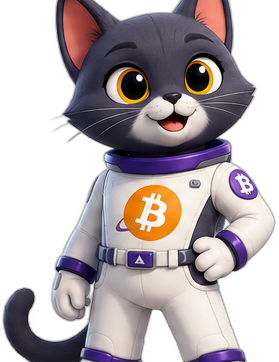
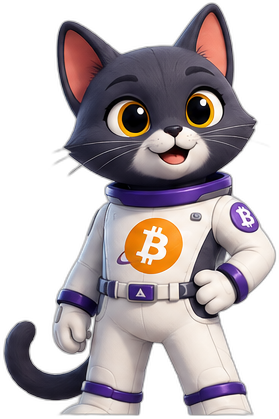
fix: preserve ear tips in hero frames
The previous crop trimmed 70px from the top of each frame to remove the
sprite number badge — but that also clipped the cat's ear tips. The fix
paints the badge area (and label strip at bottom) white BEFORE cropping
so rembg removes them naturally, while keeping a much smaller 18px trim
to retain the full ear silhouette.

diff --git a/scripts/crop-hero.py b/scripts/crop-hero.py
@@ -1,6 +1,7 @@
 #!/usr/bin/env python3
-"""Crop sprite sheet into 6 frames and remove background with rembg."""
-from PIL import Image
+"""Crop sprite sheet into 6 frames and remove background with rembg.
+Preserves ear tips by painting over the number badge BEFORE cropping."""
+from PIL import Image, ImageDraw
 from rembg import remove
 import io, os
 
@@ -13,7 +14,30 @@ W, H = img.size
 print(f"Source: {W}x{H}")
 
 CW, CH = W // 3, H // 2
-TRIM_TOP, TRIM_BOTTOM, TRIM_SIDES = 70, 80, 30
+
+# Paint the number badge area (top-left of each cell) white so it disappears
+# during background removal. This lets us keep a smaller TRIM_TOP and preserve
+# ear tips.
+draw = ImageDraw.Draw(img)
+BADGE_W, BADGE_H = 78, 68   # generous area around the badge
+for idx in range(6):
+    col = idx % 3
+    row = idx // 3
+    x0 = col * CW
+    y0 = row * CH
+    draw.rectangle([x0, y0, x0 + BADGE_W, y0 + BADGE_H], fill=(255, 255, 255, 255))
+
+# Also paint the LABEL strip at the bottom of each cell white
+LABEL_H = 60
+for idx in range(6):
+    col = idx % 3
+    row = idx // 3
+    x0 = col * CW
+    y1 = (row + 1) * CH
+    draw.rectangle([x0, y1 - LABEL_H, x0 + CW, y1], fill=(255, 255, 255, 255))
+
+# Crop with much less aggressive top trim to keep ear tips
+TRIM_TOP, TRIM_BOTTOM, TRIM_SIDES = 18, 18, 18
 
 for idx in range(6):
     col = idx % 3
